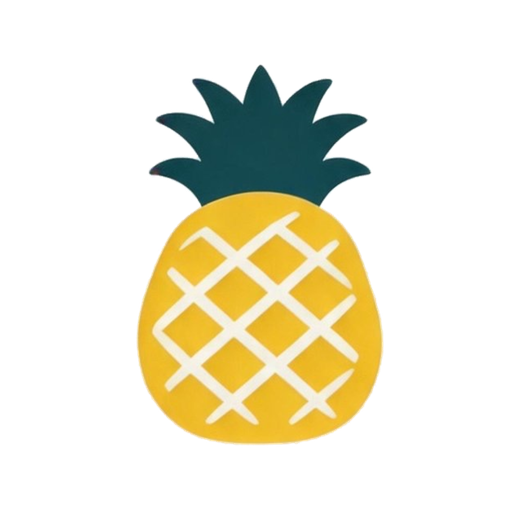
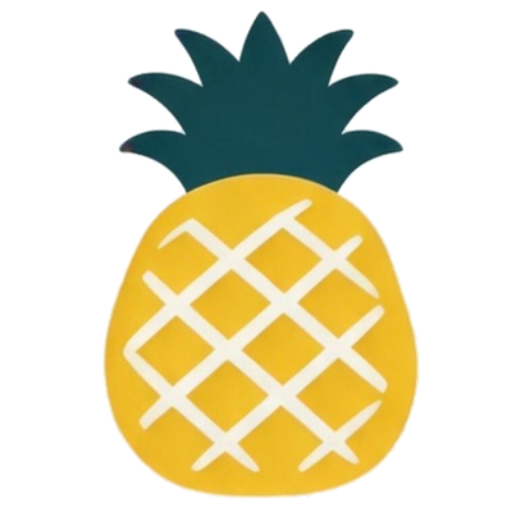
fix(ui): 壁纸不模糊、卡片 30px 磨砂、月历与四宫格加大、图标真抠图
按反馈的五条改。

## 1. 壁纸不模糊，模糊交给卡片

原来壁纸层自己带 blur(28px) —— 用户要的是背景图原样透出来。
去掉壁纸的 filter，模糊改由卡片自己做（backdrop-filter）。
效果：卡片后面的壁纸被磨砂，卡片之间和四周的壁纸保持清晰。

## 2. 卡片 30px 高斯模糊

.card-glass 的 backdrop-filter 从 20px 提到 30px（用户指定「30% 高斯模糊」，
backdrop-filter 的单位是 px）。输入区和浮层卡同步。

底色从 0.62 提到 0.72 —— 0.62 太透，壁纸的花纹直接压到四宫格的大数字上，
「11」「3」看着发飘。0.72 能透出壁纸色调但文字都稳。
壁纸层的遮罩也从 0.18 提到 0.28。

## 3. 月历卡片加大、四宫格加大

- 页面 min-h-screen → h-screen overflow-hidden（锁定一屏，不滚）
- 月历卡片 flex-1 撑满剩余高度，网格 6 行平分 → 下半部分不再空着
- 格子 h-full，数字 12px、圆圈 21px、横线 2.5px
- 四宫格 aspect-[3/2]：4:3 在手机上太夸张（单块 187×140，
  两排 290px 会把月历压得只剩 4 行），3:2 是「明显加大但不挤」的平衡点

## 4. 删掉底部的绿点和「已同步」

顶栏右上角已经有那个同步点（绿/橙/灰 + 悬停看详情），
底部再来一遍是重复，而且它把壁纸挡掉一条。
未激活的提示也移到了设置卡片里（顶栏齿轮 → 激活同步）。
连带清掉不再用的 syncState / pendingCount / onActivate 三个 prop。

## 5. 图标真抠图（不是分辨率问题）

**用户记得没错 —— 这图标从来就没被真正抠过图。**
实测：icon-192 / icon-512 / apple-touch / maskable 四个文件
**透明像素全是 0%**，纯白像素 58~74% —— 就是四张带白底的方形图。

处理：
- 接近纯白 → alpha 归零；半透明白 → 按白度线性淡出（避免边缘一圈白边）
- maskable 额外把图案缩到中间 78%，留出 Android 裁圆的安全区
- 实测结果：透明 58%、白 0%、边缘检测无白边（21% 的偏白像素是
  菠萝身上本来就有的白色网格线）
- **favicon.ico 原来是 16×16 单帧**（标签页在高分屏上必糊），
  从 512 抠图重新生成为 16/32/48 三帧，7KB

**回答「要不要重新做高清图」：不用。**
图标在界面里只显示 28-32px，192px 是 6 倍超采样，永远看不出差别；
壁纸 3125×2344，cover 后在手机上约 2.9 倍 CSS 像素，正好对上 3x 屏。
问题从来不是分辨率，是没抠图。

## 验证

231 项测试全通过、typecheck 零错误、lint 零错误、生产构建通过、
真实浏览器实跑控制台零错误、三个机型数据完整（横线 14 条）。

diff --git a/public/sw.js b/public/sw.js
@@ -1,1 +1,1 @@
-if(!self.define){let e,s={};const n=(n,a)=>(n=new URL(n+".js",a).href,s[n]||new Promise(s=>{if("document"in self){const e=document.createElement("script");e.src=n,e.onload=s,document.head.appendChild(e)}else e=n,importScripts(n),s()}).then(()=>{let e=s[n];if(!e)throw new Error(`Module ${n} didn’t register its module`);return e}));self.define=(a,t)=>{const i=e||("document"in self?document.currentScript.src:"")||location.href;if(s[i])return;let c={};const o=e=>n(e,i),r={module:{uri:i},exports:c,require:o};s[i]=Promise.all(a.map(e=>r[e]||o(e))).then(e=>(t(...e),c))}}define(["./workbox-4754cb34"],function(e){"use strict";importScripts(),self.skipWaiting(),e.clientsClaim(),e.precacheAndRoute([{url:"/_headers",revision:"44e28de71dfd4dfa2976005023c592b3"},{url:"/_next/app-build-manifest.json",revision:"f1355c7b8091694c0353586e75bdb7a1"},{url:"/_next/static/D4vPg4_8l1og9ew4dbCIT/_buildManifest.js",revision:"c155cce658e53418dec34664328b51ac"},{url:"/_next/static/D4vPg4_8l1og9ew4dbCIT/_ssgManifest.js",revision:"b6652df95db52feb4daf4eca35380933"},{url:"/_next/static/chunks/117-bf9a4e3495ea7431.js",revision:"D4vPg4_8l1og9ew4dbCIT"},{url:"/_next/static/chunks/745.d63e232bb54d0697.js",revision:"d63e232bb54d0697"},{url:"/_next/static/chunks/app/_not-found/page-c29644dd036fa4cb.js",revision:"D4vPg4_8l1og9ew4dbCIT"},{url:"/_next/static/chunks/app/dev-frame/page-64fbc0c4b1ab8fba.js",revision:"D4vPg4_8l1og9ew4dbCIT"},{url:"/_next/static/chunks/app/layout-d2c1b818dca474f2.js",revision:"D4vPg4_8l1og9ew4dbCIT"},{url:"/_next/static/chunks/app/page-ad3b4128910d193d.js",revision:"D4vPg4_8l1og9ew4dbCIT"},{url:"/_next/static/chunks/fd9d1056-f645e3cd7ccf8003.js",revision:"D4vPg4_8l1og9ew4dbCIT"},{url:"/_next/static/chunks/framework-f66176bb897dc684.js",revision:"D4vPg4_8l1og9ew4dbCIT"},{url:"/_next/static/chunks/main-0a0679a705e35641.js",revision:"D4vPg4_8l1og9ew4dbCIT"},{url:"/_next/static/chunks/main-app-9d5d665d1ad3906b.js",revision:"D4vPg4_8l1og9ew4dbCIT"},{url:"/_next/static/chunks/pages/_app-72b849fbd24ac258.js",revision:"D4vPg4_8l1og9ew4dbCIT"},{url:"/_next/static/chunks/pages/_error-7ba65e1336b92748.js",revision:"D4vPg4_8l1og9ew4dbCIT"},{url:"/_next/static/chunks/polyfills-42372ed130431b0a.js",revision:"846118c33b2c0e922d7b3a7676f81f6f"},{url:"/_next/static/chunks/webpack-9fb7f49b8625263f.js",revision:"D4vPg4_8l1og9ew4dbCIT"},{url:"/_next/static/css/c4624293c06f6930.css",revision:"c4624293c06f6930"},{url:"/apple-touch-icon.png",revision:"a30a49c52ca7e774ce4b7d6da8ec9521"},{url:"/background.webp",revision:"33839d51eda6ad45aa6d25e0ed6b5ab7"},{url:"/favicon.ico",revision:"0b0a141b8fa2c03f2749f8327528867b"},{url:"/icon-192x192.png",revision:"a0f4624f51559c7684301119cb62c612"},{url:"/icon-512x512.png",revision:"f2e87300caf91c9903782929d1ccdcbc"},{url:"/manifest.json",revision:"d1042e1f76c7be432ac62bef44f0ac55"},{url:"/maskable-icon.png",revision:"905b70220d487f043d7cc72808f125cb"}],{ignoreURLParametersMatching:[]}),e.cleanupOutdatedCaches(),e.registerRoute("/",new e.NetworkFirst({cacheName:"start-url",plugins:[{cacheWillUpdate:async({request:e,response:s,event:n,state:a})=>s&&"opaqueredirect"===s.type?new Response(s.body,{status:200,statusText:"OK",headers:s.headers}):s}]}),"GET"),e.registerRoute(/^https:\/\/fonts\.(?:gstatic)\.com\/.*/i,new e.CacheFirst({cacheName:"google-fonts-webfonts",plugins:[new e.ExpirationPlugin({maxEntries:4,maxAgeSeconds:31536e3})]}),"GET"),e.registerRoute(/^https:\/\/fonts\.(?:googleapis)\.com\/.*/i,new e.StaleWhileRevalidate({cacheName:"google-fonts-stylesheets",plugins:[new e.ExpirationPlugin({maxEntries:4,maxAgeSeconds:604800})]}),"GET"),e.registerRoute(/\.(?:eot|otf|ttc|ttf|woff|woff2|font.css)$/i,new e.StaleWhileRevalidate({cacheName:"static-font-assets",plugins:[new e.ExpirationPlugin({maxEntries:4,maxAgeSeconds:604800})]}),"GET"),e.registerRoute(/\.(?:jpg|jpeg|gif|png|svg|ico|webp)$/i,new e.StaleWhileRevalidate({cacheName:"static-image-assets",plugins:[new e.ExpirationPlugin({maxEntries:64,maxAgeSeconds:86400})]}),"GET"),e.registerRoute(/\/_next\/image\?url=.+$/i,new e.StaleWhileRevalidate({cacheName:"next-image",plugins:[new e.ExpirationPlugin({maxEntries:64,maxAgeSeconds:86400})]}),"GET"),e.registerRoute(/\.(?:mp3|wav|ogg)$/i,new e.CacheFirst({cacheName:"static-audio-assets",plugins:[new e.RangeRequestsPlugin,new e.ExpirationPlugin({maxEntries:32,maxAgeSeconds:86400})]}),"GET"),e.registerRoute(/\.(?:mp4)$/i,new e.CacheFirst({cacheName:"static-video-assets",plugins:[new e.RangeRequestsPlugin,new e.ExpirationPlugin({maxEntries:32,maxAgeSeconds:86400})]}),"GET"),e.registerRoute(/\.(?:js)$/i,new e.StaleWhileRevalidate({cacheName:"static-js-assets",plugins:[new e.ExpirationPlugin({maxEntries:32,maxAgeSeconds:86400})]}),"GET"),e.registerRoute(/\.(?:css|less)$/i,new e.StaleWhileRevalidate({cacheName:"static-style-assets",plugins:[new e.ExpirationPlugin({maxEntries:32,maxAgeSeconds:86400})]}),"GET"),e.registerRoute(/\/_next\/data\/.+\/.+\.json$/i,new e.StaleWhileRevalidate({cacheName:"next-data",plugins:[new e.ExpirationPlugin({maxEntries:32,maxAgeSeconds:86400})]}),"GET"),e.registerRoute(/\.(?:json|xml|csv)$/i,new e.NetworkFirst({cacheName:"static-data-assets",plugins:[new e.ExpirationPlugin({maxEntries:32,maxAgeSeconds:86400})]}),"GET"),e.registerRoute(({url:e})=>{if(!(self.origin===e.origin))return!1;const s=e.pathname;return!s.startsWith("/api/auth/")&&!!s.startsWith("/api/")},new e.NetworkFirst({cacheName:"apis",networkTimeoutSeconds:10,plugins:[new e.ExpirationPlugin({maxEntries:16,maxAgeSeconds:86400})]}),"GET"),e.registerRoute(({url:e})=>{if(!(self.origin===e.origin))return!1;return!e.pathname.startsWith("/api/")},new e.NetworkFirst({cacheName:"others",networkTimeoutSeconds:10,plugins:[new e.ExpirationPlugin({maxEntries:32,maxAgeSeconds:86400})]}),"GET"),e.registerRoute(({url:e})=>!(self.origin===e.origin),new e.NetworkFirst({cacheName:"cross-origin",networkTimeoutSeconds:10,plugins:[new e.ExpirationPlugin({maxEntries:32,maxAgeSeconds:3600})]}),"GET")});
+if(!self.define){let e,s={};const n=(n,a)=>(n=new URL(n+".js",a).href,s[n]||new Promise(s=>{if("document"in self){const e=document.createElement("script");e.src=n,e.onload=s,document.head.appendChild(e)}else e=n,importScripts(n),s()}).then(()=>{let e=s[n];if(!e)throw new Error(`Module ${n} didn’t register its module`);return e}));self.define=(a,i)=>{const t=e||("document"in self?document.currentScript.src:"")||location.href;if(s[t])return;let c={};const r=e=>n(e,t),o={module:{uri:t},exports:c,require:r};s[t]=Promise.all(a.map(e=>o[e]||r(e))).then(e=>(i(...e),c))}}define(["./workbox-4754cb34"],function(e){"use strict";importScripts(),self.skipWaiting(),e.clientsClaim(),e.precacheAndRoute([{url:"/_headers",revision:"44e28de71dfd4dfa2976005023c592b3"},{url:"/_next/app-build-manifest.json",revision:"62260513e409d8a95ddd3dd88f0ddfc9"},{url:"/_next/static/TxZlQZWO0EiMwlkBWfSbM/_buildManifest.js",revision:"c155cce658e53418dec34664328b51ac"},{url:"/_next/static/TxZlQZWO0EiMwlkBWfSbM/_ssgManifest.js",revision:"b6652df95db52feb4daf4eca35380933"},{url:"/_next/static/chunks/117-bf9a4e3495ea7431.js",revision:"TxZlQZWO0EiMwlkBWfSbM"},{url:"/_next/static/chunks/745.d63e232bb54d0697.js",revision:"d63e232bb54d0697"},{url:"/_next/static/chunks/app/_not-found/page-c29644dd036fa4cb.js",revision:"TxZlQZWO0EiMwlkBWfSbM"},{url:"/_next/static/chunks/app/dev-frame/page-64fbc0c4b1ab8fba.js",revision:"TxZlQZWO0EiMwlkBWfSbM"},{url:"/_next/static/chunks/app/layout-d2c1b818dca474f2.js",revision:"TxZlQZWO0EiMwlkBWfSbM"},{url:"/_next/static/chunks/app/page-f29f939a4abb60e1.js",revision:"TxZlQZWO0EiMwlkBWfSbM"},{url:"/_next/static/chunks/fd9d1056-f645e3cd7ccf8003.js",revision:"TxZlQZWO0EiMwlkBWfSbM"},{url:"/_next/static/chunks/framework-f66176bb897dc684.js",revision:"TxZlQZWO0EiMwlkBWfSbM"},{url:"/_next/static/chunks/main-0a0679a705e35641.js",revision:"TxZlQZWO0EiMwlkBWfSbM"},{url:"/_next/static/chunks/main-app-9d5d665d1ad3906b.js",revision:"TxZlQZWO0EiMwlkBWfSbM"},{url:"/_next/static/chunks/pages/_app-72b849fbd24ac258.js",revision:"TxZlQZWO0EiMwlkBWfSbM"},{url:"/_next/static/chunks/pages/_error-7ba65e1336b92748.js",revision:"TxZlQZWO0EiMwlkBWfSbM"},{url:"/_next/static/chunks/polyfills-42372ed130431b0a.js",revision:"846118c33b2c0e922d7b3a7676f81f6f"},{url:"/_next/static/chunks/webpack-9fb7f49b8625263f.js",revision:"TxZlQZWO0EiMwlkBWfSbM"},{url:"/_next/static/css/7c930ebc2e218ded.css",revision:"7c930ebc2e218ded"},{url:"/apple-touch-icon.png",revision:"7cefd70b5c7aa8af19e4685f44103a8e"},{url:"/background.webp",revision:"33839d51eda6ad45aa6d25e0ed6b5ab7"},{url:"/favicon.ico",revision:"ca71d147f93b3a9c8d8a78bbbaa6d54b"},{url:"/icon-192x192.png",revision:"06a47a7545fed7a7b6a0adce810103f4"},{url:"/icon-512x512.png",revision:"cbef6ec9f875f90075382fe283c48aa7"},{url:"/manifest.json",revision:"d1042e1f76c7be432ac62bef44f0ac55"},{url:"/maskable-icon.png",revision:"8f3f8d9970e06d1427a1c31b840e54cc"}],{ignoreURLParametersMatching:[]}),e.cleanupOutdatedCaches(),e.registerRoute("/",new e.NetworkFirst({cacheName:"start-url",plugins:[{cacheWillUpdate:async({request:e,response:s,event:n,state:a})=>s&&"opaqueredirect"===s.type?new Response(s.body,{status:200,statusText:"OK",headers:s.headers}):s}]}),"GET"),e.registerRoute(/^https:\/\/fonts\.(?:gstatic)\.com\/.*/i,new e.CacheFirst({cacheName:"google-fonts-webfonts",plugins:[new e.ExpirationPlugin({maxEntries:4,maxAgeSeconds:31536e3})]}),"GET"),e.registerRoute(/^https:\/\/fonts\.(?:googleapis)\.com\/.*/i,new e.StaleWhileRevalidate({cacheName:"google-fonts-stylesheets",plugins:[new e.ExpirationPlugin({maxEntries:4,maxAgeSeconds:604800})]}),"GET"),e.registerRoute(/\.(?:eot|otf|ttc|ttf|woff|woff2|font.css)$/i,new e.StaleWhileRevalidate({cacheName:"static-font-assets",plugins:[new e.ExpirationPlugin({maxEntries:4,maxAgeSeconds:604800})]}),"GET"),e.registerRoute(/\.(?:jpg|jpeg|gif|png|svg|ico|webp)$/i,new e.StaleWhileRevalidate({cacheName:"static-image-assets",plugins:[new e.ExpirationPlugin({maxEntries:64,maxAgeSeconds:86400})]}),"GET"),e.registerRoute(/\/_next\/image\?url=.+$/i,new e.StaleWhileRevalidate({cacheName:"next-image",plugins:[new e.ExpirationPlugin({maxEntries:64,maxAgeSeconds:86400})]}),"GET"),e.registerRoute(/\.(?:mp3|wav|ogg)$/i,new e.CacheFirst({cacheName:"static-audio-assets",plugins:[new e.RangeRequestsPlugin,new e.ExpirationPlugin({maxEntries:32,maxAgeSeconds:86400})]}),"GET"),e.registerRoute(/\.(?:mp4)$/i,new e.CacheFirst({cacheName:"static-video-assets",plugins:[new e.RangeRequestsPlugin,new e.ExpirationPlugin({maxEntries:32,maxAgeSeconds:86400})]}),"GET"),e.registerRoute(/\.(?:js)$/i,new e.StaleWhileRevalidate({cacheName:"static-js-assets",plugins:[new e.ExpirationPlugin({maxEntries:32,maxAgeSeconds:86400})]}),"GET"),e.registerRoute(/\.(?:css|less)$/i,new e.StaleWhileRevalidate({cacheName:"static-style-assets",plugins:[new e.ExpirationPlugin({maxEntries:32,maxAgeSeconds:86400})]}),"GET"),e.registerRoute(/\/_next\/data\/.+\/.+\.json$/i,new e.StaleWhileRevalidate({cacheName:"next-data",plugins:[new e.ExpirationPlugin({maxEntries:32,maxAgeSeconds:86400})]}),"GET"),e.registerRoute(/\.(?:json|xml|csv)$/i,new e.NetworkFirst({cacheName:"static-data-assets",plugins:[new e.ExpirationPlugin({maxEntries:32,maxAgeSeconds:86400})]}),"GET"),e.registerRoute(({url:e})=>{if(!(self.origin===e.origin))return!1;const s=e.pathname;return!s.startsWith("/api/auth/")&&!!s.startsWith("/api/")},new e.NetworkFirst({cacheName:"apis",networkTimeoutSeconds:10,plugins:[new e.ExpirationPlugin({maxEntries:16,maxAgeSeconds:86400})]}),"GET"),e.registerRoute(({url:e})=>{if(!(self.origin===e.origin))return!1;return!e.pathname.startsWith("/api/")},new e.NetworkFirst({cacheName:"others",networkTimeoutSeconds:10,plugins:[new e.ExpirationPlugin({maxEntries:32,maxAgeSeconds:86400})]}),"GET"),e.registerRoute(({url:e})=>!(self.origin===e.origin),new e.NetworkFirst({cacheName:"cross-origin",networkTimeoutSeconds:10,plugins:[new e.ExpirationPlugin({maxEntries:32,maxAgeSeconds:3600})]}),"GET")});

diff --git a/src/components/MonthView.tsx b/src/components/MonthView.tsx
@@ -54,8 +54,11 @@ export default function MonthView({
 
   return (
     <>
-      {/* ==================== 月历卡片 ==================== */}
-      <div className="card-glass rounded-2xl border border-white/60 shadow-[0_2px_16px_rgba(28,28,28,0.06)] px-3 pt-2.5 pb-2.5">
+      {/* ==================== 月历卡片 ====================
+          flex-1：卡片自己撑满剩余高度。
+          下面四宫格是固定高度的，所以月历有多余空间就往下长 ——
+          这样屏幕下半部分不会被壁纸空着。 */}
+      <div className="card-glass flex-1 min-h-0 rounded-2xl border border-white/60 shadow-[0_2px_16px_rgba(28,28,28,0.06)] px-3 pt-2.5 pb-2.5 flex flex-col">
         {/* 标题行：左「十一月」，中间翻月箭头，右年份 */}
         <div className="flex items-center justify-between px-1 mb-1">
           <div className="flex items-center gap-1">
@@ -81,26 +84,30 @@ export default function MonthView({
           ))}
         </div>
 
-        {/* 日期网格 */}
-        <div className="grid grid-cols-7 gap-1">
+        {/* 日期网格 —— flex-1 让 6 行平分卡片剩余高度。
+            格子高度跟着变，所以下面的空白被吃掉，壁纸不会空一大块。
+            overflow-hidden：空间不够时宁可裁掉一点，也不能把卡片撑破。 */}
+        <div className="grid grid-cols-7 gap-1 flex-1 min-h-0 overflow-hidden">
           {grid.cells.map((cell, i) => (
             <MonthCellView key={i} cell={cell} onClick={onDateClick} />
           ))}
         </div>
       </div>
 
-      {/* ==================== 四宫格 ==================== */}
-      <div className="grid grid-cols-2 gap-2.5">
+      {/* ==================== 四宫格 ====================
+          aspect-[3/2]：每块宽:高 = 3:2。
+          4:3 在手机上太夸张（单块 187×140，两排加起来 290px，
+          会把月历压得只剩 4 行），3:2 是「明显加大但不挤」的平衡点。
+          shrink-0：高度固定，不跟月历抢空间。 */}
+      <div className="grid grid-cols-2 gap-2.5 shrink-0">
         {statItems.map(s => (
           <button
             key={s.kind}
             onClick={() => onStatClick?.(s.kind)}
-            className="card-glass rounded-2xl border border-white/60 shadow-[0_2px_16px_rgba(28,28,28,0.06)] px-3.5 py-3 text-left transition-all hover:bg-white/80 active:scale-[0.98]"
+            className="card-glass aspect-[3/2] rounded-2xl border border-white/60 shadow-[0_2px_16px_rgba(28,28,28,0.06)] px-3.5 py-3 flex flex-col justify-between text-left transition-all hover:bg-white/75 active:scale-[0.98]"
           >
-            <div className="flex items-baseline justify-between gap-2">
-              <span className="text-xs text-[#A0A0A0]">{s.label}</span>
-              <span className="text-2xl font-medium tabular-nums" style={{ color: s.color }}>{s.n}</span>
-            </div>
+            <span className="text-xs text-[#A0A0A0]">{s.label}</span>
+            <span className="text-3xl font-medium tabular-nums self-end leading-none" style={{ color: s.color }}>{s.n}</span>
           </button>
         ))}
       </div>
@@ -119,7 +126,7 @@ function MonthCellView({ cell, onClick }: { cell: MonthCell; onClick?: (date: st
     <button
       onClick={() => cell.date && onClick?.(cell.date)}
       disabled={!cell.date}
-      className={`relative flex flex-col items-center rounded-lg py-0.5 min-h-[36px] transition-colors ${
+      className={`relative flex flex-col items-center justify-start rounded-lg py-1 h-full transition-colors ${
         cell.inMonth ? 'hover:bg-white/60' : ''
       }`}
       aria-label={cell.date ? `${cell.date}` : undefined}
@@ -130,13 +137,13 @@ function MonthCellView({ cell, onClick }: { cell: MonthCell; onClick?: (date: st
       {isToday && (
         <span
           aria-hidden="true"
-          className="absolute left-1/2 -translate-x-1/2 top-0.5 w-[19px] h-[19px] rounded-full bg-[#ED6A3B] shadow-[0_1px_4px_rgba(237,106,59,0.35)]"
+          className="absolute left-1/2 -translate-x-1/2 top-1 w-[21px] h-[21px] rounded-full bg-[#ED6A3B] shadow-[0_1px_4px_rgba(237,106,59,0.35)]"
         />
       )}
 
       {/* 日期数字 */}
       <span
-        className={`relative z-10 text-[11px] leading-5 tabular-nums ${
+        className={`relative z-10 text-[12px] leading-6 tabular-nums ${
           !cell.inMonth ? 'text-[#C0BDB8]' : isToday ? 'text-white font-medium' : 'text-[#1C1C1C]'
         }`}
       >
@@ -146,17 +153,17 @@ function MonthCellView({ cell, onClick }: { cell: MonthCell; onClick?: (date: st
       {/* 事件横线 —— 一件事一条，按类型分颜色。
           最多画 4 条：格子高度有限，再多就挤到下一行去了。
           超过 4 条显示 +N。 */}
-      <span className="flex flex-col items-center gap-[1.5px] mt-[1px] w-full px-[3px]">
+      <span className="flex flex-col items-center gap-[2px] mt-[2px] w-full px-[3px]">
         {cell.lines.slice(0, 4).map(l => (
           <span
             key={l.id}
-            className="block w-full max-w-[26px] h-[2px] rounded-full"
+            className="block w-full max-w-[26px] h-[2.5px] rounded-full"
             style={{ background: lineColor(l.type, l.completed) }}
             title={l.title}
           />
         ))}
         {cell.lines.length > 4 && (
-          <span className="text-[8px] text-[#A0A0A0] leading-none">+{cell.lines.length - 4}</span>
+          <span className="text-[9px] text-[#A0A0A0] leading-none">+{cell.lines.length - 4}</span>
         )}
       </span>
     </button>

diff --git a/src/components/InputArea.tsx b/src/components/InputArea.tsx
@@ -66,14 +66,8 @@ export interface InputAreaProps {
   token: string | null;
   /** 一句话进来 → 返回解析结果与原话 */
   onSubmit: (parsed: ParsedResult) => void;
-  /** 同步状态 */
-  syncState: 'syncing' | 'synced' | 'offline';
-  /** 队列里还有几条没传上去 */
-  pendingCount?: number;
   /** 窄屏 */
   isNarrow: boolean;
-  /** 点「去激活」→ 打开激活弹窗 */
-  onActivate?: () => void;
 }
 
 /** 手指上滑多少算「进取消区」 */
@@ -82,7 +76,7 @@ const CANCEL_THRESHOLD_PX = 56;
 const HOLD_THRESHOLD_MS = 250;
 
 export default function InputArea({
-  apiBase, token, onSubmit, syncState, pendingCount = 0, isNarrow, onActivate,
+  apiBase, token, onSubmit, isNarrow,
 }: InputAreaProps) {
   const [text, setText] = useState('');
   const [notice, setNotice] = useState('');
@@ -259,28 +253,10 @@ export default function InputArea({
   };
 
   // ==================== 同步状态 ====================
-
-  // 队列非空时把条数显示出来 —— 「离线待同步」这四个字
-  // 让人知道东西还在，但不知道有多少、是不是真在等。
   //
-  // 没激活时不能说「已同步」—— 根本没同步过。
-  // 绿点 + 已同步 会让人以为东西在云端，换台设备却看不到。
-  const syncLabel = !token
-    ? '未激活 · 只在这台设备'
-    : pendingCount > 0
-    ? `${syncState === 'offline' ? '离线待同步' : '待同步'} ${pendingCount}`
-    : {
-        syncing: '同步中',
-        synced: '已同步',
-        offline: '离线待同步',
-      }[syncState];
-  const syncColor = !token
-    ? 'bg-[#D9D4CF]'
-    : {
-        syncing: 'bg-[#ED6A3B]',
-        synced: 'bg-[#059669]',
-        offline: 'bg-[#D9D4CF]',
-      }[syncState];
+  // 底部原来有一行「● 已同步」，现在删了 ——
+  // 顶栏右上角已经有那个同步点，底部再来一遍是重复，
+  // 而且它把壁纸挡掉一条。未激活的提示也移到了设置卡片里。
 
   return (
     <>
@@ -297,24 +273,6 @@ export default function InputArea({
         // 它是「当前编辑目标」的输入框，浮层打开时依然能用。
         className="fixed bottom-0 left-0 right-0 z-[100] shrink-0 pb-[var(--sab)]"
       >
-        {/* 未激活提示 —— 这是最容易被忽略、后果最重的一种状态：
-            没激活时记下的事只在这台设备上，换台设备看不见。
-            顶栏那个小圆点太不起眼，用户会以为一切正常，
-            直到发现「手机上看不到」才发现问题。这里给一句明话。
-
-            做成一行小字而不是一块横幅：横幅太占地方，
-            而输入区是 fixed 钉在底部的，一块横幅就把壁纸挡掉一大片。 */}
-        {!token && (
-          <div className="px-4 pt-2">
-            <button
-              onClick={onActivate}
-              className="w-full flex items-center justify-between gap-3 text-left text-[11px] text-[#8A6D3B] hover:text-[#B8860B] transition-colors"
-            >
-              <span className="min-w-0 truncate">未激活 · 只在这台设备</span>
-              <span className="shrink-0 font-medium">去激活 →</span>
-            </button>
-          </div>
-        )}
 
         {/* 平台级限制提示 —— 语音是这个产品的核心，
             但 iOS 上只有 Safari 能用麦克风。与其让人点了才知道，
@@ -400,15 +358,10 @@ export default function InputArea({
             </div>
           )}
 
-          {/* 同步状态 —— 常驻，不需要点进去看。语音态时收起（胶囊里空间紧张）。
-              颜色要够深：半透明卡片 + 浅色壁纸的背景下，
-              #A0A0A0 的浅灰几乎看不见。 */}
-          {!voiceMode && (
-            <div className="flex items-center gap-1.5 mt-1.5 px-2">
-              <span className={`w-1.5 h-1.5 rounded-full ${syncColor} ${syncState === 'syncing' ? 'animate-pulse' : ''}`} />
-              <span className="text-[10px] text-[#6B6B6B]">{syncLabel}</span>
-            </div>
-          )}
+          {/* 同步状态行 —— 删掉了。
+              顶栏右上角已经有那个同步点（绿/橙/灰 + 悬停看详情），
+              底部再来一遍「● 已同步」是重复的，而且它把壁纸挡掉一条。
+              未激活的提示也移到了设置卡片里（顶栏齿轮 → 激活同步）。 */}
         </div>
       </div>
     </>

diff --git a/src/app/globals.css b/src/app/globals.css
@@ -38,13 +38,11 @@ body {
 /* ==================== 壁纸层 ====================
    壁纸铺满整屏，在所有内容之后。
 
-   为什么要模糊：
-   壁纸是一张很鲜艳的花卉图（红花绿叶），直接铺出来会跟卡片上的
-   文字、图标抢注意力 —— 顶栏的灰色图标直接消失在花里。
-   模糊之后它变成一片柔和的底色，图案还在（看得出是那张图），
-   但不再跟内容抢。这正是 iOS/macOS「壁纸 + 磨砂卡片」的标准做法。
+   **不模糊** —— 用户明确要求背景图原样透出来。
+   模糊交给卡片自己去做（.card-glass 的 backdrop-filter），
+   效果是：卡片后面的壁纸被卡片磨砂，卡片之间/四周的壁纸保持清晰。
 
-   inset 负值：模糊会在边缘渗出透明，露出底色。
+   inset 负值：blur 会在边缘渗出透明，露出底色。
    向外撑 60px 再模糊，正好把边缘填满。
 
    isolation: isolate —— 让 body 成为 stacking context，
@@ -61,13 +59,12 @@ body {
 body::before {
   content: '';
   position: fixed;
-  inset: -60px;
+  inset: 0;
   z-index: -1;
-  background-image: linear-gradient(rgba(247, 245, 242, 0.55), rgba(247, 245, 242, 0.55)), url('/background.webp');
+  background-image: linear-gradient(rgba(247, 245, 242, 0.28), rgba(247, 245, 242, 0.28)), url('/background.webp');
   background-size: cover;
   background-position: center;
   background-repeat: no-repeat;
-  filter: blur(28px) saturate(1.15);
   pointer-events: none;
 }
 
@@ -75,29 +72,38 @@ body::before {
    整个界面改成「壁纸 + 一堆悬浮圆角卡片」的结构。
    这些 class 抽出来，是为了让顶栏、月历、四宫格、输入框、弹层
    用同一套视觉语言 —— 透明度、毛玻璃、圆角、边框全一致，
-   不会一个一个地各写一遍然后慢慢走样。 */
+   不会一个一个地各写一遍然后慢慢走样。
+
+   **壁纸本身不模糊**（用户要求背景图原样透出来），
+   模糊由卡片自己做：backdrop-filter 磨砂的是「卡片背后的壁纸」，
+   卡片之间和四周的壁纸保持清晰。 */
 @layer components {
   /* 半透明 + 毛玻璃的卡片底。
-     backdrop-blur 让壁纸在卡片后面糊开，卡片本身能透出一点壁纸的色调。 */
+     30px 高斯模糊（用户指定「卡片做 30% 高斯模糊」——
+     backdrop-filter 的单位是 px，30px 的磨砂感明显，底下的图案还认得出）。
+
+     底色 0.72 —— 之前 0.62 太透：壁纸的花纹直接压到数字上，
+     「11」「3」这种大数字看着发飘。0.72 能透出壁纸的色调，
+     但文字和数字都稳。 */
   .card-glass {
     background: rgba(255, 255, 255, 0.72);
-    backdrop-filter: blur(20px) saturate(1.4);
-    -webkit-backdrop-filter: blur(20px) saturate(1.4);
+    backdrop-filter: blur(30px) saturate(1.4);
+    -webkit-backdrop-filter: blur(30px) saturate(1.4);
   }
 
   /* 输入框那一层要更实一点 —— 里面是文字，
      太透会看不清用户自己输入的内容。 */
   .card-glass-strong {
-    background: rgba(255, 255, 255, 0.86);
-    backdrop-filter: blur(24px) saturate(1.5);
-    -webkit-backdrop-filter: blur(24px) saturate(1.5);
+    background: rgba(255, 255, 255, 0.85);
+    backdrop-filter: blur(30px) saturate(1.5);
+    -webkit-backdrop-filter: blur(30px) saturate(1.5);
   }
 
   /* 弹出来的卡片（设置、日期详情、类别清单）——
      它们浮在最上层且下面全模糊，所以底色要更接近实心，
      否则叠在模糊层上会显脏。 */
   .card-float {
-    background: rgba(255, 255, 255, 0.94);
+    background: rgba(255, 255, 255, 0.95);
     backdrop-filter: blur(32px) saturate(1.6);
     -webkit-backdrop-filter: blur(32px) saturate(1.6);
   }

diff --git a/src/app/page.tsx b/src/app/page.tsx
@@ -929,10 +929,11 @@ export default function Home() {
   // ==================== UI ====================
 
   return (
-    // 底部不留 pb：输入区是 fixed 钉在屏幕底部的，
-    // 文档流里由 InputArea 自己的占位块让出等高空间。
-    // 内容区不再实底 —— 壁纸要透出来，栏目浮在它上面。
-    <main className="min-h-screen flex flex-col">
+    // h-screen：整个页面锁定一屏高，不滚动。
+    // 月历卡片靠 flex-1 撑满剩余高度 —— 这样屏幕下半部分被卡片占住，
+    // 壁纸不会空出一大块。
+    // 输入区是 fixed 钉在底部的，文档流里由 InputArea 的占位块让出空间。
+    <main className="h-screen flex flex-col overflow-hidden">
       {/* v1.0 更新弹窗 */}
       {showVersionModal && (
         <div className="fixed inset-0 z-[70] flex items-center justify-center bg-black/50 backdrop-blur-sm p-4" onClick={dismissVersionModal}>
@@ -1369,7 +1370,10 @@ export default function Home() {
 
       {/* 内容区：月历卡片 + 四宫格。
           桌面端跟移动端一样 —— 不再「左周视图 + 右明细卡」并排。
-          月历在宽屏上格子更大，看得更清楚；明细改成点日期后弹浮层。 */}
+          月历在宽屏上格子更大，看得更清楚；明细改成点日期后弹浮层。
+
+          min-h-0：flex 子项默认 min-height:auto，
+          不加的话月历的 flex-1 撑不开，四宫格会把整页顶出视口。 */}
       <div className="flex-1 flex flex-col gap-2.5 mx-3 mt-3 pb-2 min-h-0">
 
         <MonthView
@@ -1470,10 +1474,7 @@ export default function Home() {
         apiBase={API_BASE}
         token={token}
         onSubmit={handleParsed}
-        syncState={syncState}
-        pendingCount={pendingCount}
         isNarrow={isNarrow}
-        onActivate={() => setShowActivate(true)}
       />
 
       {/* 开发期标注器 —— 只在 next dev 出现，生产构建整块不渲染。
